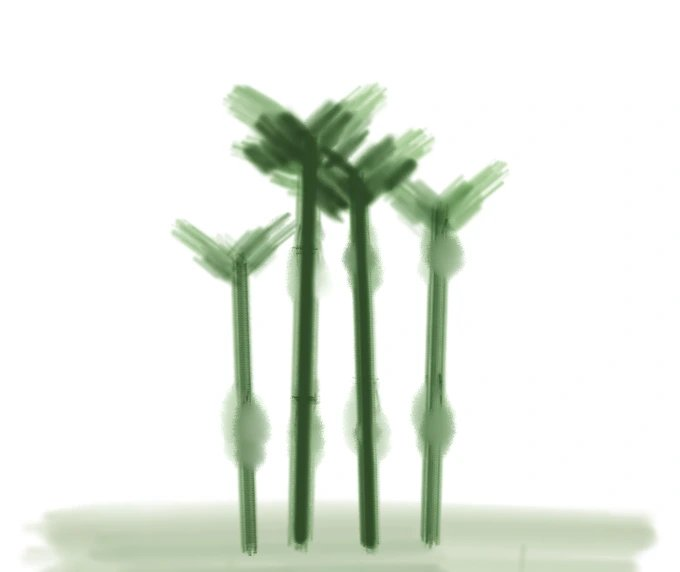
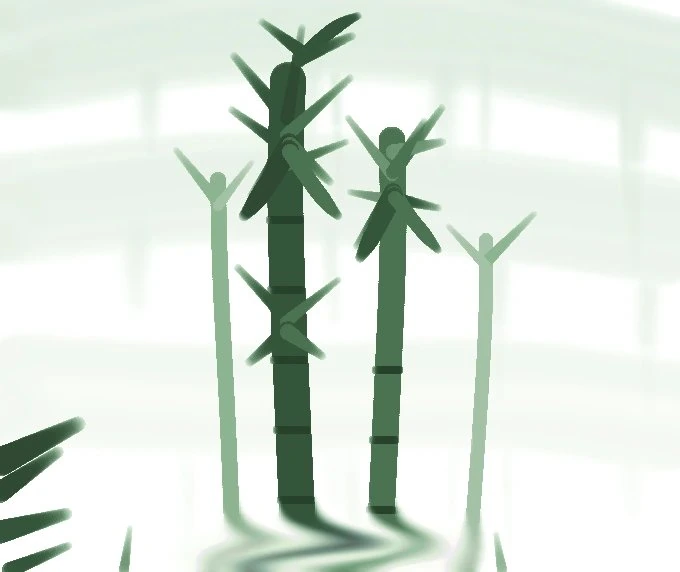
Redraw the gallery: whale-maid self-portrait, bamboo, landscape, flower
The self-portrait is now the blue whale-tailed maid in the lace headdress, painted stroke by stroke on the canvas, signed with a vermilion seal. Bamboo, landscape and flower are repainted too; README captions updated.

diff --git a/README.md b/README.md
@@ -1,10 +1,10 @@
 # 🐟 肥鱼画室 · Chubby fish studio
 
-*大肥鱼自画像。45 笔，`#4D6BFE`（DeepSeek 蓝），画在这个画布上。右下角是落款。*
+*大肥鱼自画像。约 180 笔，画在这个画布上：深蓝到浅蓝的鲸尾小女仆，白蕾丝头巾、蓝蝴蝶结、鲸鱼鳍耳，白围裙上一枚小鲸鱼徽记。左下角是朱红印章。*
 
 <table>
 <tr>
-<td width="54%"><img src="docs/gallery/portrait.png" alt="自画像：一条用 DeepSeek 蓝画的水彩鲸鱼"></td>
+<td width="54%"><img src="docs/gallery/portrait.png" alt="自画像：蓝发鲸尾的小女仆，一笔一笔画出来的"></td>
 <td width="46%"><img src="docs/gallery/proof.png" alt="当时的对话截图：正在运行命令"></td>
 </tr>
 <tr>
@@ -20,9 +20,9 @@
 <td width="34%"><img src="docs/gallery/flower.webp" alt="小花"></td>
 </tr>
 <tr>
-<td align="center"><sub>竹林 · 50 笔（<code>flat</code> 与 <code>watercolor</code> 混用）</sub></td>
-<td align="center"><sub>风景 · 10 笔（100% 湿度的水洗）</sub></td>
-<td align="center"><sub>小花 · 22 笔 + 3 笔涂抹</sub></td>
+<td align="center"><sub>竹林 · 44 笔（<code>watercolor</code> 起雾、<code>circle</code> 铺竿、<code>taper</code> 收叶尖）</sub></td>
+<td align="center"><sub>风景 · 41 笔（水洗天光，铺出三重山与湖）</sub></td>
+<td align="center"><sub>小花 · 37 笔（花瓣从尖端往花心落笔，<code>taper</code> 收窄）</sub></td>
 </tr>
 </table>
 
